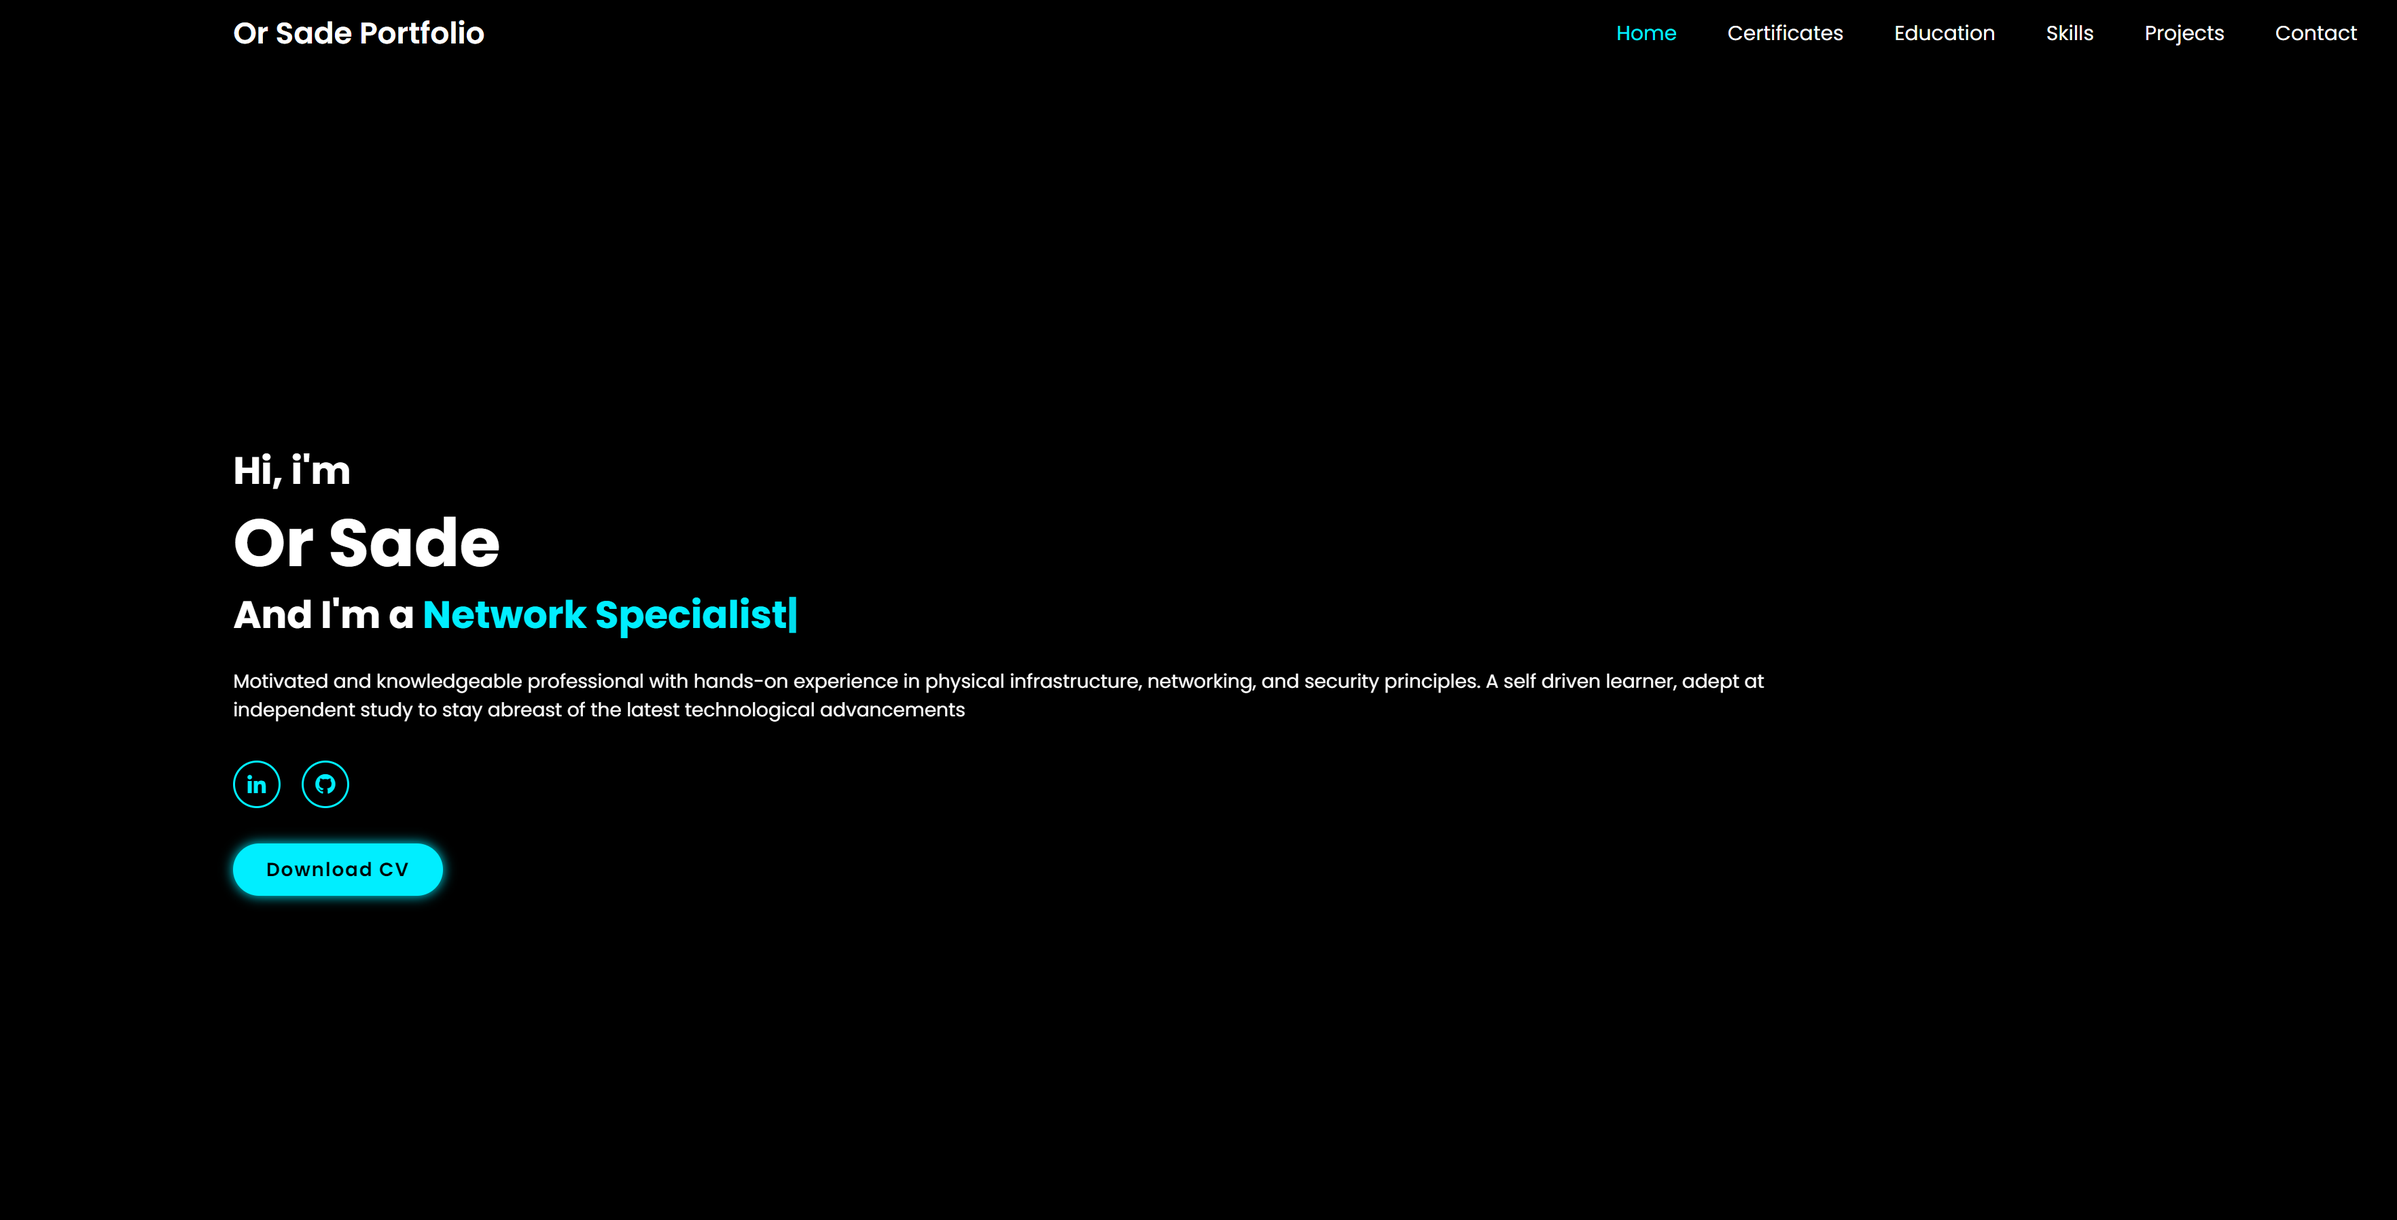
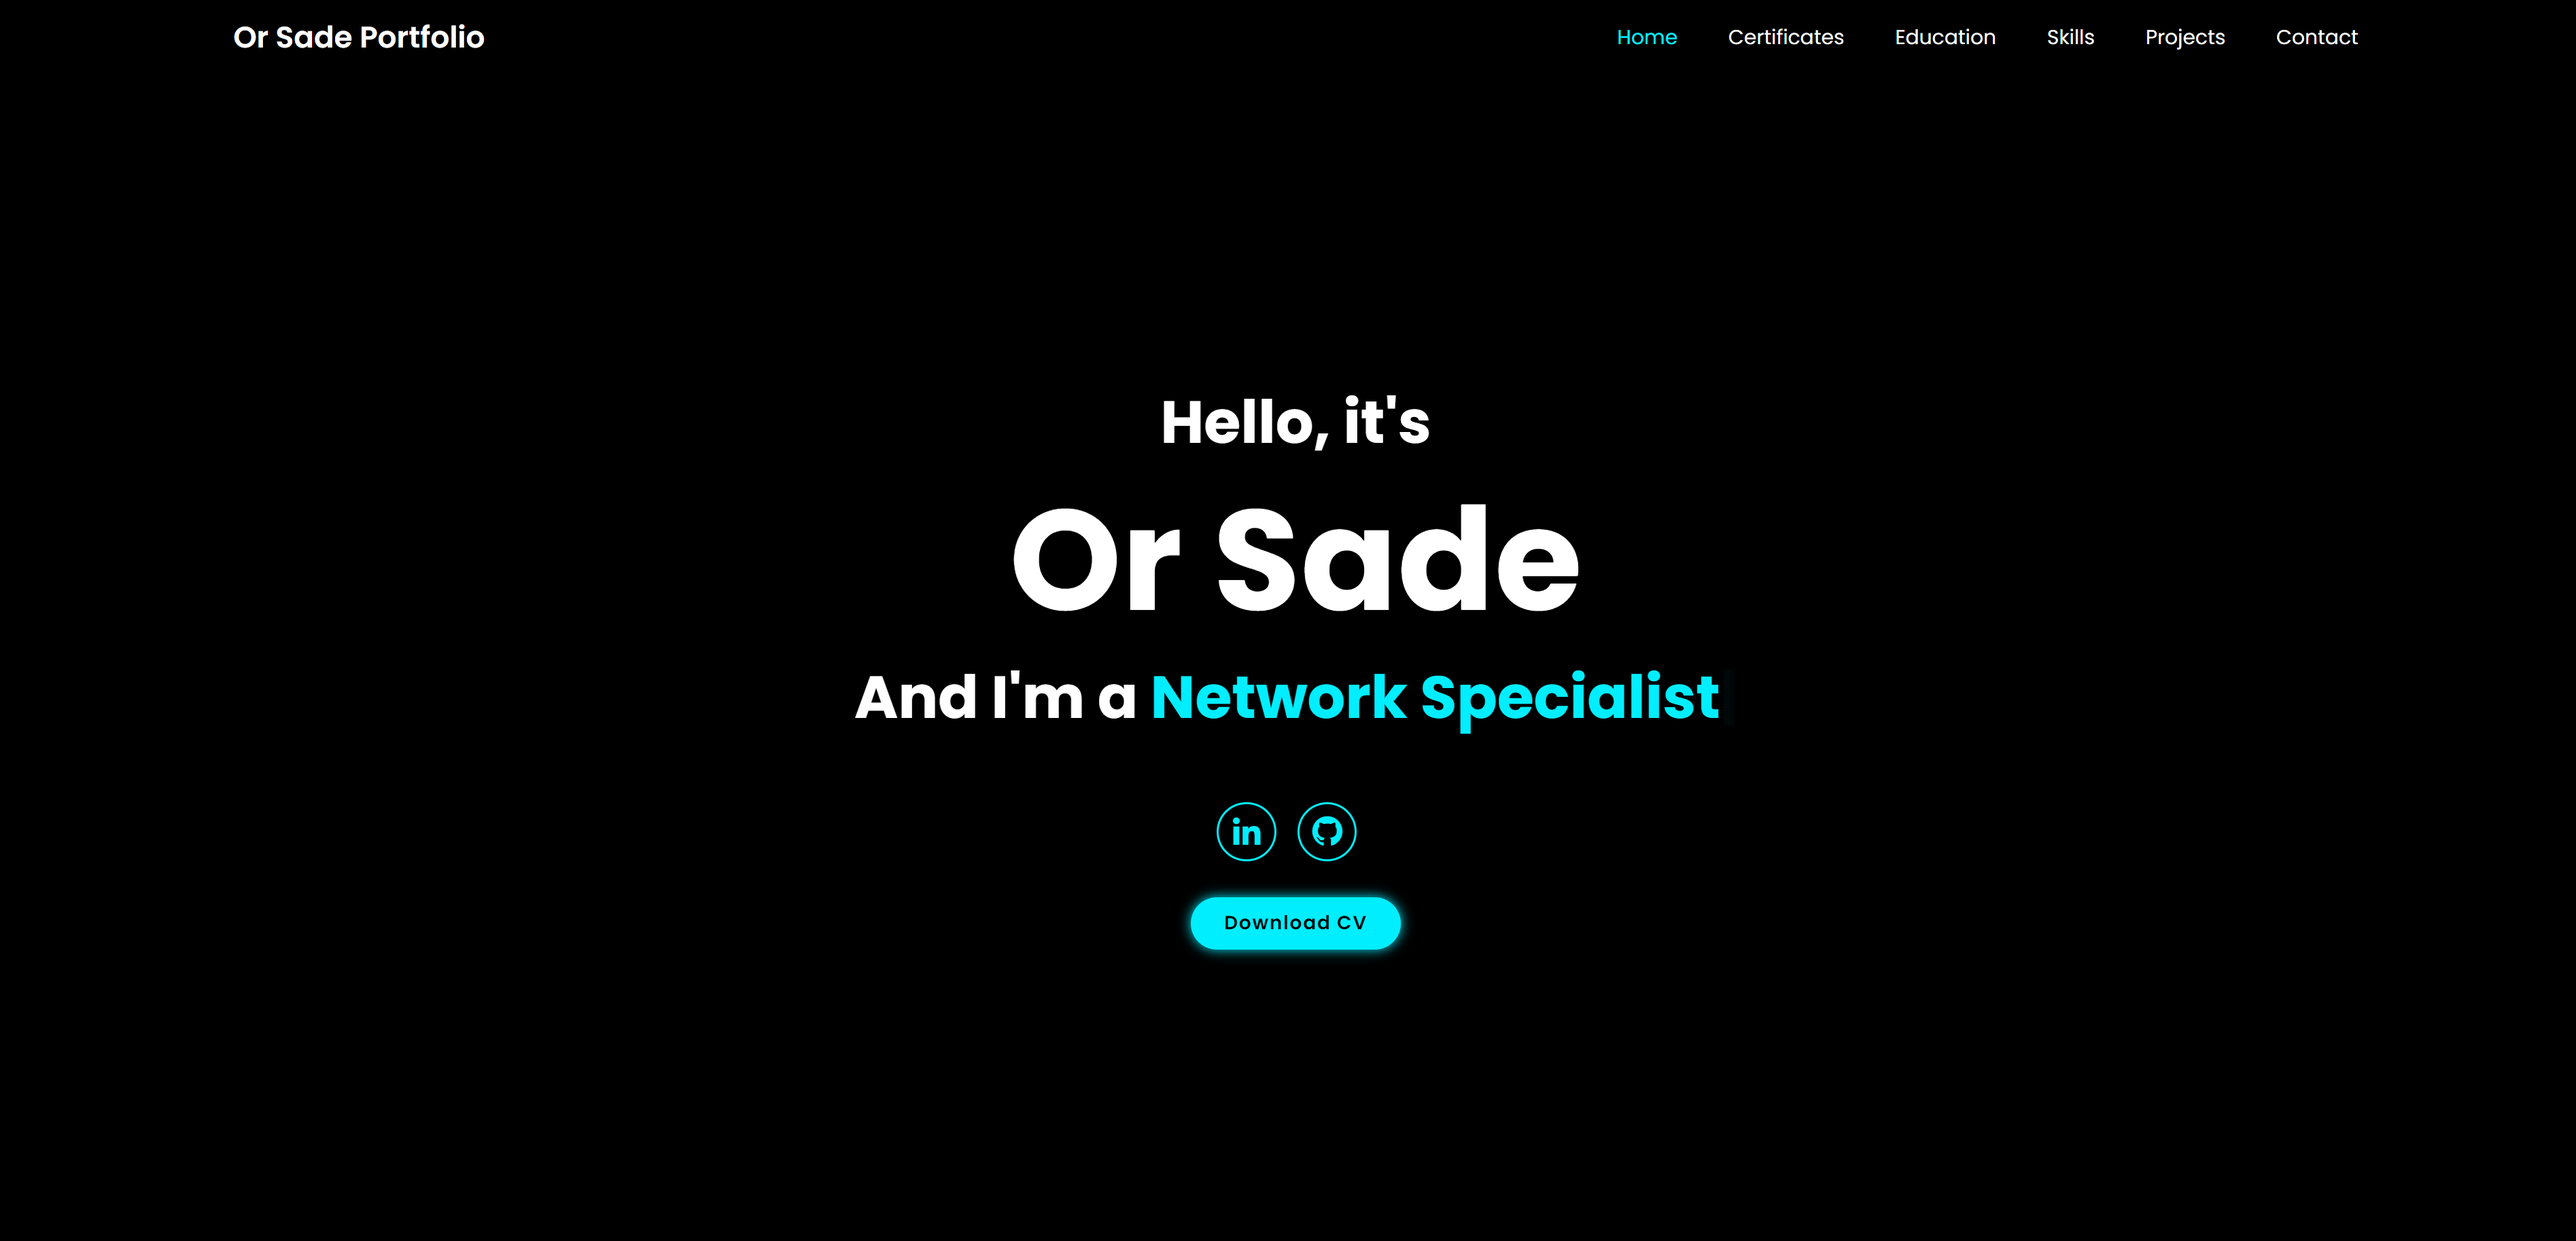
changes

diff --git a/My Site/index.html b/My Site/index.html
@@ -1,23 +1,23 @@
 <!DOCTYPE html>
 <html lang="en">
 
-<head>
-    <meta charset="UTF-8">
-    <meta http-equiv="X-UA-Compatible" content="IE=edge">
-    <meta name="viewport" content="width=device-width, initial-scale=1.0">
-    <title>Or Sade Portfolio </title>
-    <!-- Iconify icons -->
-      <script src="https://code.iconify.design/2/2.0.3/iconify.min.js"></script>
+    <head>
+        <meta charset="UTF-8">
+        <meta http-equiv="X-UA-Compatible" content="IE=edge">
+        <meta name="viewport" content="width=device-width, initial-scale=1.0">
+        <title>Or Sade Portfolio </title>
+        <!-- Iconify icons -->
+        <script src="https://code.iconify.design/2/2.0.3/iconify.min.js"></script>
 
-    <!-- box icons -->
-    <link href='https://unpkg.com/boxicons@2.1.4/css/boxicons.min.css' rel='stylesheet'>
+        <!-- box icons -->
+        <link href='https://unpkg.com/boxicons@2.1.4/css/boxicons.min.css' rel='stylesheet'>
 
-    <!-- custom css -->
-    <link rel="stylesheet" href="style.css">
-</head>
+        <!-- custom css -->
+        <link rel="stylesheet" href="style.css">
+    </head>
 
-<body>
-    
+    <body>
+        
     <!-- header design -->
     <header class="header">
         <a href="#" class="logo">Or Sade Portfolio</a>
@@ -40,10 +40,6 @@
             <h3>Hello, it's</h3>
             <h1>Or Sade</h1>
             <h3>And I'm a  <span class="multiple-text"></span></h3>
-            <p>Motivated and knowledgeable professional with hands-on experience in
-                physical infrastructure, networking, and security principles. A self driven
-                learner, adept at independent study to stay abreast of the latest
-                technological advancements</p>
             <div class="social-media">
                 <a href="https://www.linkedin.com/in/or-sade/" target="_blank"><i class='bx bxl-linkedin'></i></a>
                 <a href="https://github.com/Rwd96" target="_blank"><i class='bx bxl-github'></i></a>
@@ -84,8 +80,6 @@
         </div>
         </section>
             
-            
-
  <!-- Skills section design with Iconify icons -->
 <section class="skills" id="skills">
     <h2 class="heading">My <span>Skills</span></h2>

diff --git a/My Site/style.css b/My Site/style.css
@@ -83,8 +83,10 @@ section {
 
 .home {
     display: flex;
+    flex-direction: column; /* To stack the child elements vertically */
     justify-content: center;
     align-items: center;
+    text-align: center; /* Align text center within .home */
 }
 
 .home-img img {
@@ -107,10 +109,8 @@ section {
 }
 
 .home-content h3 {
-    font-size: 3.2rem;
+    font-size: 5rem;
     font-weight: 700;
-   
-     
 }
 
 .home-content h3:nth-of-type(2) {
@@ -122,26 +122,27 @@ span {
 }
 
 .home-content h1 {
-    font-size: 5.6rem;
+    font-size: 12rem;
     font-weight: 700;
     line-height: 1.3;
 }
 
 .home-content p {
     font-size: 1.6rem;
-    max-width: 78%;
+    max-width: 100%;
+    
 }
 
 .social-media a {
     display: inline-flex;
     justify-content: center;
     align-items: center;
-    width: 4rem;
-    height: 4rem;
+    width: 5rem;
+    height: 5rem;
     background: transparent;
     border: .2rem solid var(--main-color);
     border-radius: 50%;
-    font-size: 2rem;
+    font-size: 3rem;
     color: var(--main-color);
     margin: 3rem 1.5rem 3rem 0;
     transition: .5s ease;
